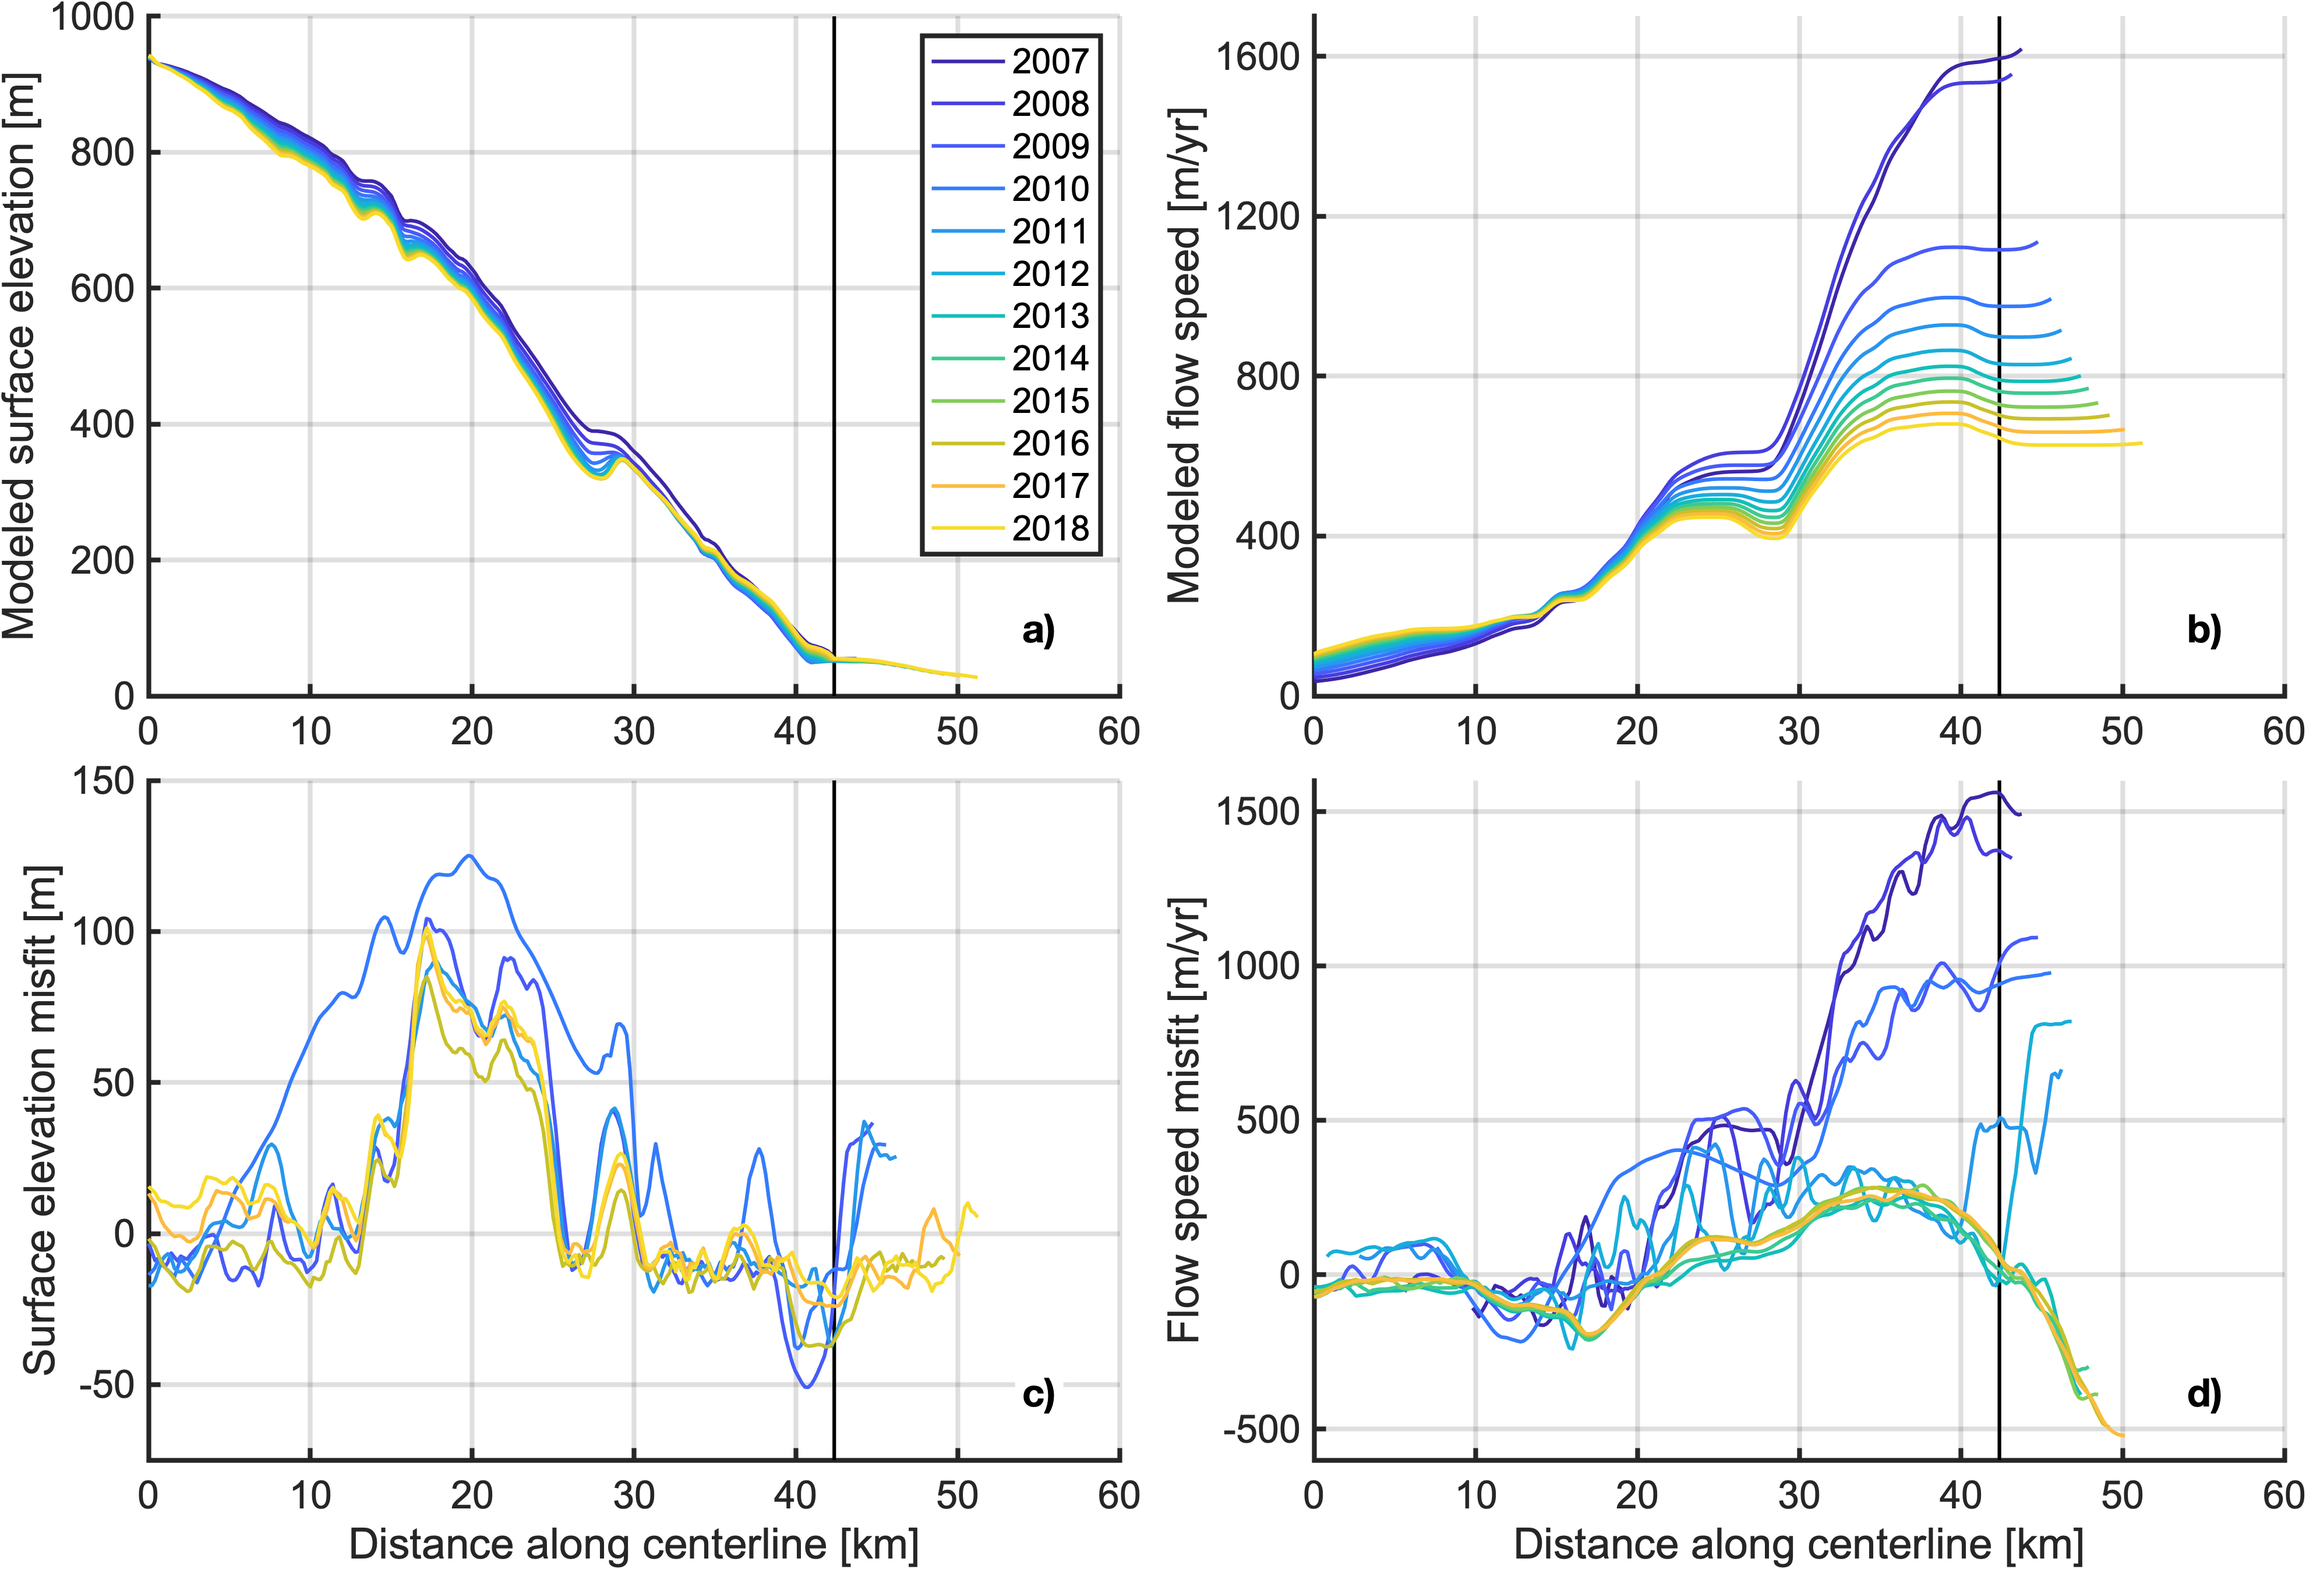
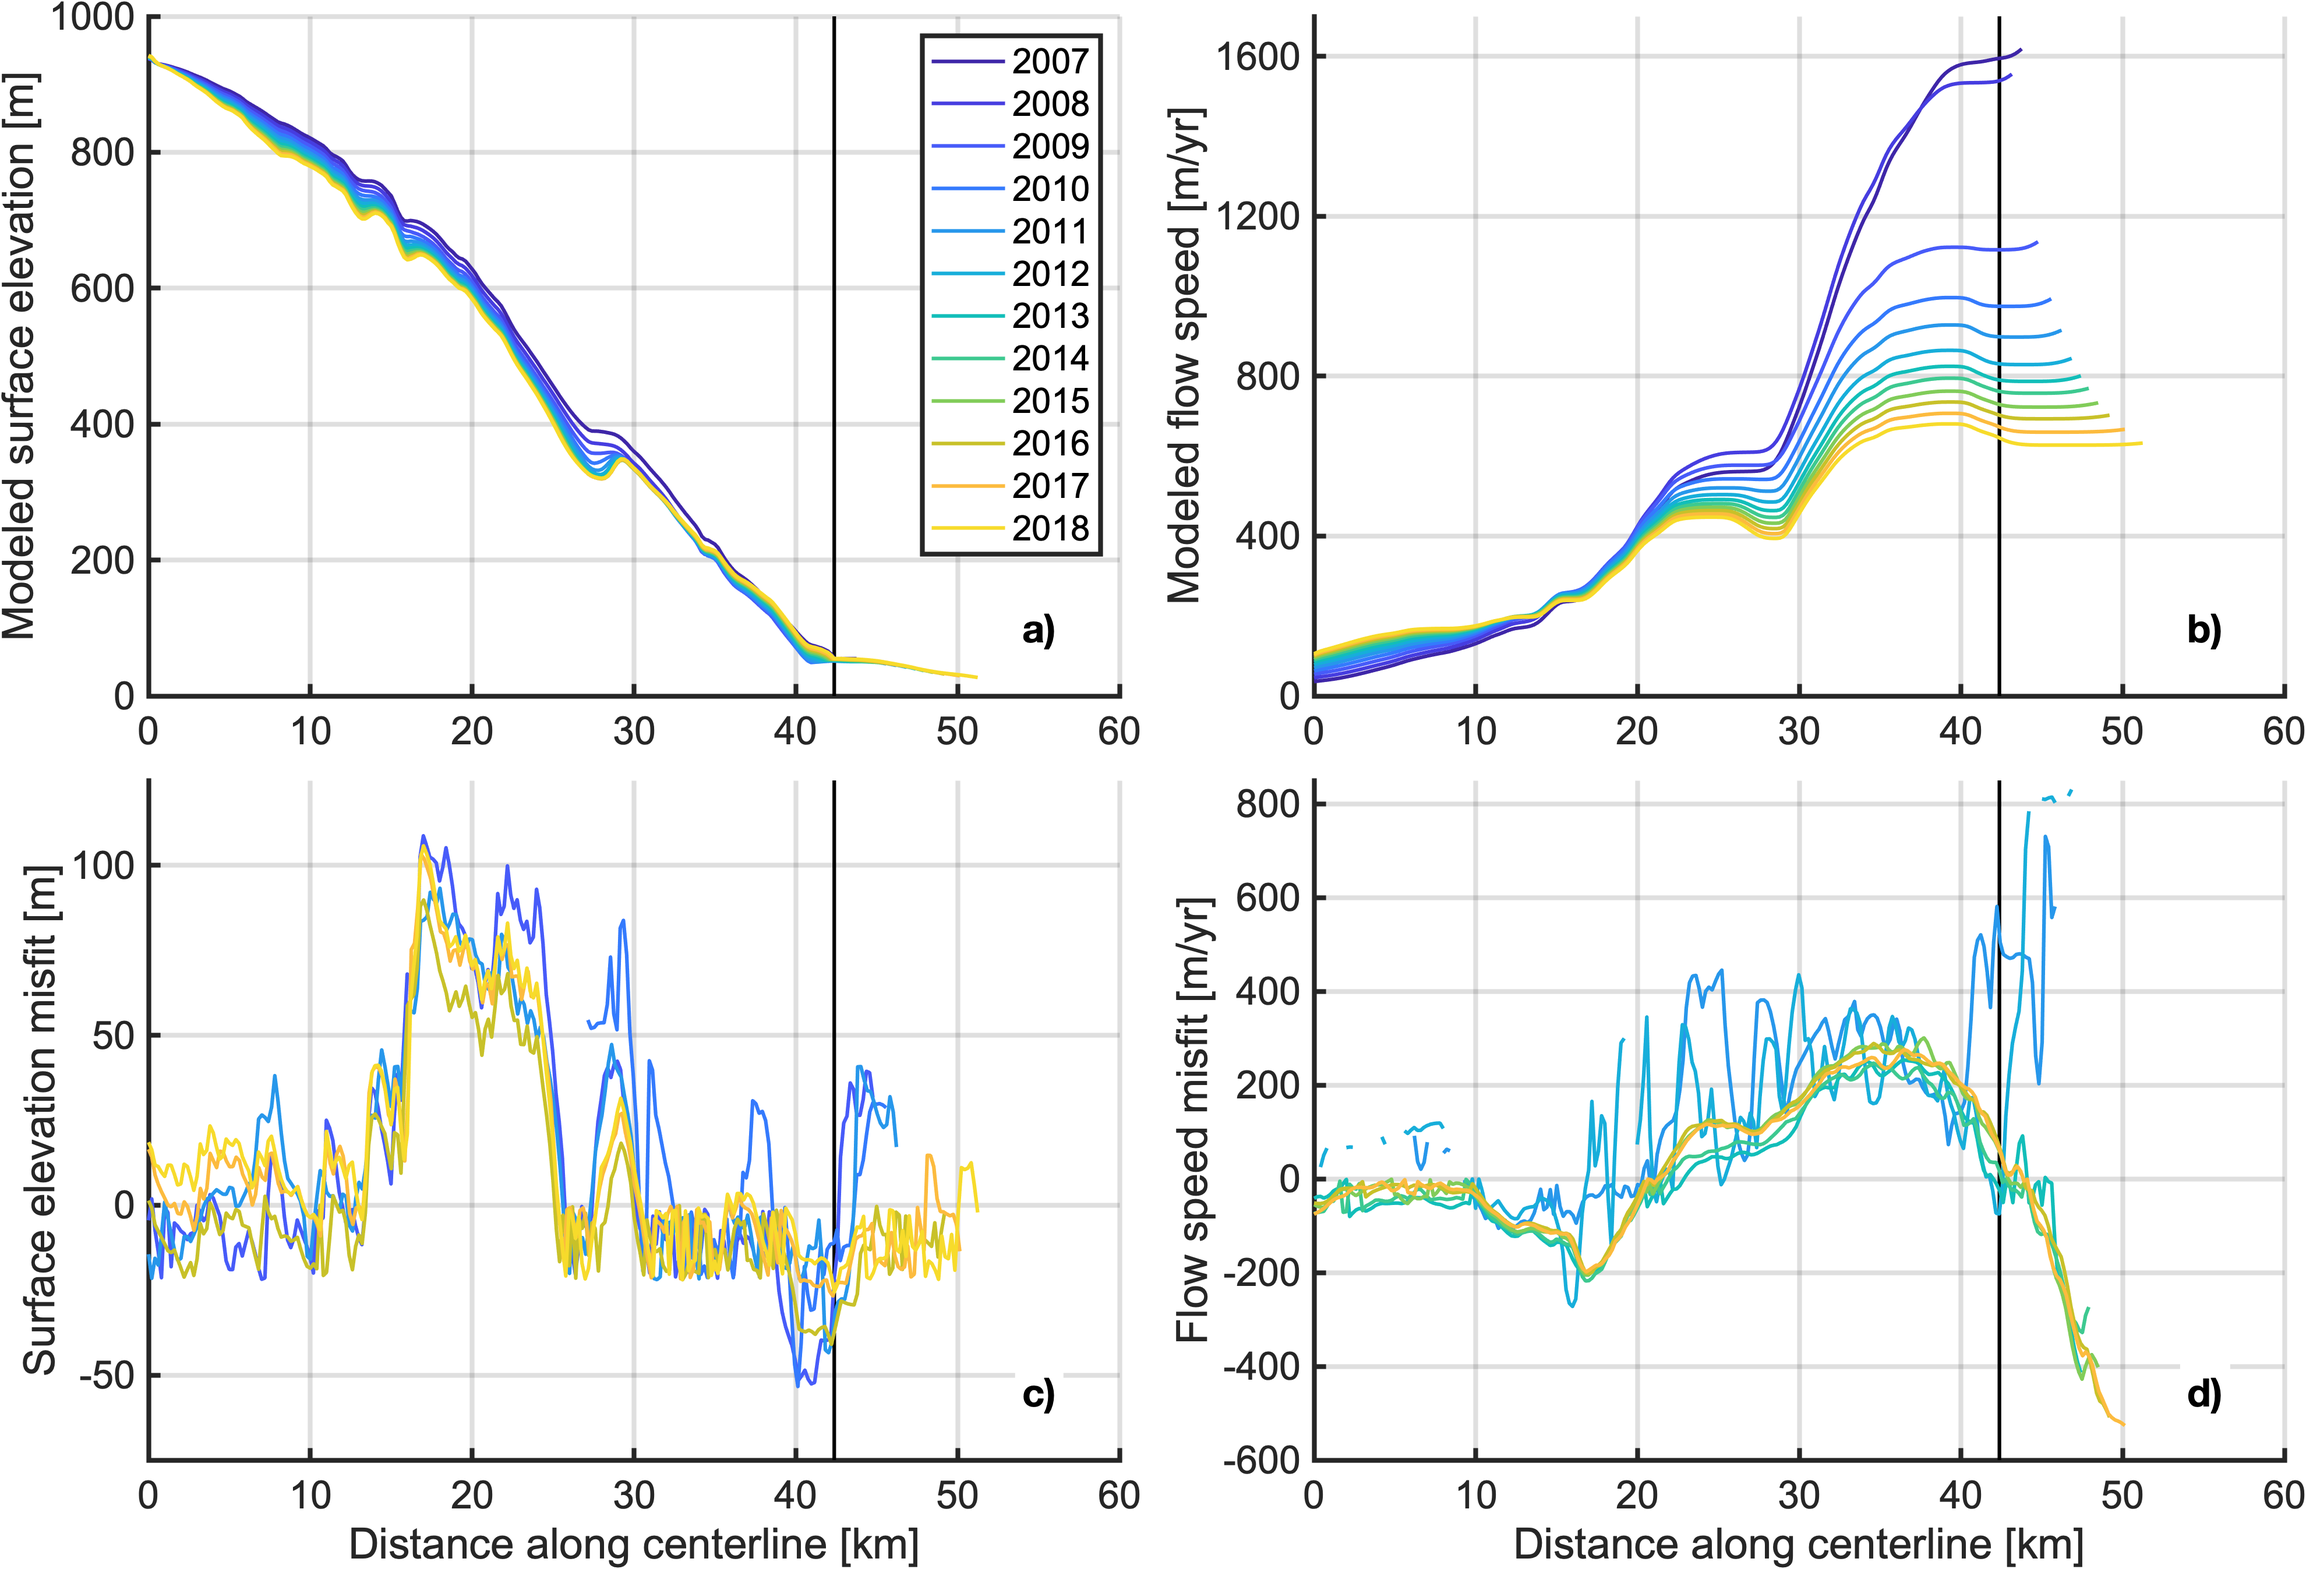
fixed model misfits figure - removed observation no-data values

diff --git a/figures/manuscript_figures.m b/figures/manuscript_figures.m
@@ -1035,18 +1035,17 @@ grid on;
     xlabel('Distance along centerline [km]');
     ylabel('Surface elevation misfit [m]');  
 %     xlim([25 60]);
-    ylim([-75 150]);
+    ylim([-75 125]);
     % grounding line location
     plot(ax3, [mod_cond(end).x(mod_cond(end).gl)/10^3 mod_cond(end).x(mod_cond(end).gl)/10^3],...
         [min(get(ax3,'YLim')) max(get(ax3,'YLim'))],'-k','linewidth',linewidth,'displayname','2018 gl');
     for i=1:length(Ih_obs)
         % dataset error
         h_err = 22; % surface elevation observational error margin [m]
+        % interpolate observed surface elevation to model grid coordinates
+        h_obsi = interp1(cl.xi, h_obs(Ih_obs(i)).h_centerline, mod_cond(Ih_mod(i)).x);
         % difference between modeled and observed
-        misfit = mod_cond(Ih_mod(i)).h...
-            -interp1(cl.xi(~isnan(h_obs(Ih_obs(i)).h_centerline)),...
-            h_obs(Ih_obs(i)).h_centerline(~isnan(h_obs(Ih_obs(i)).h_centerline)),...
-            mod_cond(Ih_mod(i)).x);
+        misfit = mod_cond(Ih_mod(i)).h - h_obsi; 
         % adjust misfit for dataset error
         misfit(misfit<0) = misfit(misfit<0) + h_err;
         misfit(misfit>0) = misfit(misfit>0) - h_err;
@@ -1071,10 +1070,10 @@ grid on;
         % dataset error
         U_err = interp1(cl.xi, U_obs(IU_obs(i)).U_err, mod_cond(IU_mod(i)).x); 
         % difference between modeled and observed
-        misfit = mod_cond(IU_mod(i)).U...
-            - interp1(cl.xi(~isnan(U_obs(IU_obs(i)).U_width_ave)), ...
-            U_obs(IU_obs(i)).U_width_ave(~isnan(U_obs(IU_obs(i)).U_width_ave)), ...
-            mod_cond(IU_mod(i)).x);
+        % interpolate observed surface speed to model grid coordinates
+        U_obsi = interp1(cl.xi, U_obs(IU_obs(i)).U_width_ave, mod_cond(IU_mod(i)).x);
+        % difference between modeled and observed
+        misfit = mod_cond(IU_mod(i)).U - U_obsi;
         % adjust misfit for dataset error
         misfit(misfit<0) = misfit(misfit<0) + U_err(misfit<0);
         misfit(misfit>0) = misfit(misfit>0) - U_err(misfit>0);
